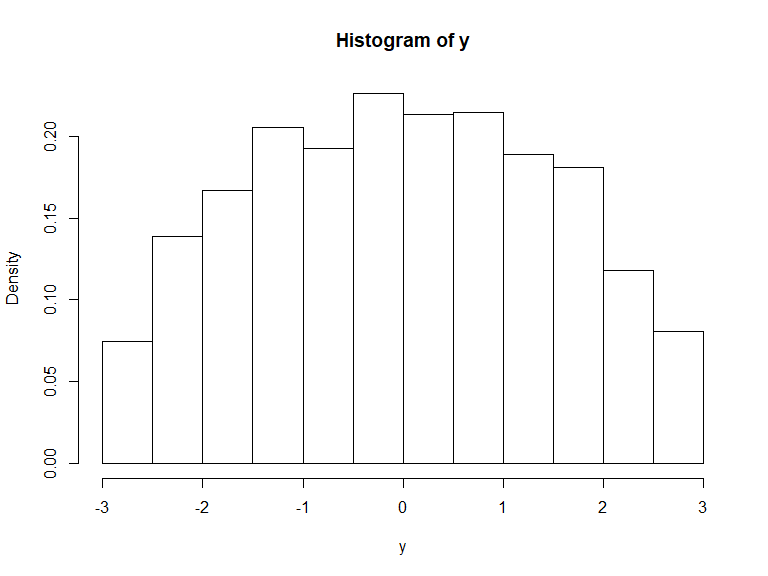
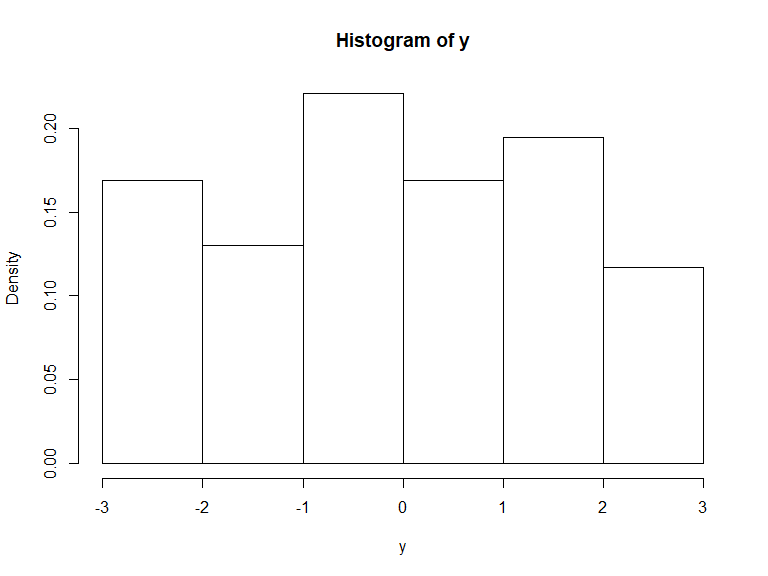
reworking problem 6

diff --git a/homework-1---Monte-Carlo-Methods.md b/homework-1---Monte-Carlo-Methods.md
@@ -82,7 +82,7 @@ distribution.)
 set.seed(1001)
 
 accrej <- function(fdens, gdens, beta, M = (4/pi), x){
-  x = runif(2222, min = -beta, max = beta)
+  x = runif(100, min = -beta, max = beta)
   return(x[runif(length(x)) <= fdens(x, beta) / (M * gdens(x, beta))])
 }
 
@@ -126,7 +126,10 @@ better to use \(U^2\) rather than \(U\) as the control variate, where
 \(U\sim U(0,1)\). To do this, use simulation to approximate the
 necessary covariances. In addition, implement your algorithms in 
 
-# Answer: your answer starts here…
+## Using U^2 the variance is lower than using U as the control variate
+
+The variance is lower for u^2 (-4.43) than for u (-4.09) as the control
+variate as shown below.
 
 ``` r
 gfun<-function(x){ 
@@ -184,27 +187,30 @@ importance sampling and evaluate its variance. Write a
 
 ``` r
 ncandidates <- 1000;  
-M <- sqrt(2*pi/exp(1))
+M <- sqrt(2*pi)
 u <- runif(ncandidates)
-x <- tan(pi * (runif(ncandidates) - 0.5))
+m <- exp((-x^2)/2)
+y <- function(x){
+  x^2*m/M
+}
 accepted <- NULL      # Initialize the vector of accepted values
-for(i in 1:ncandidates)
-  if(u[i] <= dnorm(x[i])/(M * dcauchy(x[i])))
+for(i in 1:ncandidates){
+  if(u[i] <= y(x[i])/dcauchy(x[i]))
     accepted <- c(accepted, x[i])    # Accept x[i]
-accepted <- x[u <= dnorm(x)/(M * dcauchy(x))]
+    accepted <- x[u <= dnorm(x)/(M * dcauchy(x))]
+}
+```
+
+``` r
+Y <- function(x){
+  y/dcauchy(x)
+}
+
+
+integrate(Y, 1, 10000)
+
+
 var(accepted)
-```
-
-    ## [1] 1.04041
-
-``` r
 plot(accepted)
-```
-
-<img src="homework-1---Monte-Carlo-Methods_files/figure-gfm/unnamed-chunk-8-1.png" width="90%" />
-
-``` r
 hist(accepted)
 ```
-
-<img src="homework-1---Monte-Carlo-Methods_files/figure-gfm/unnamed-chunk-8-2.png" width="90%" />
